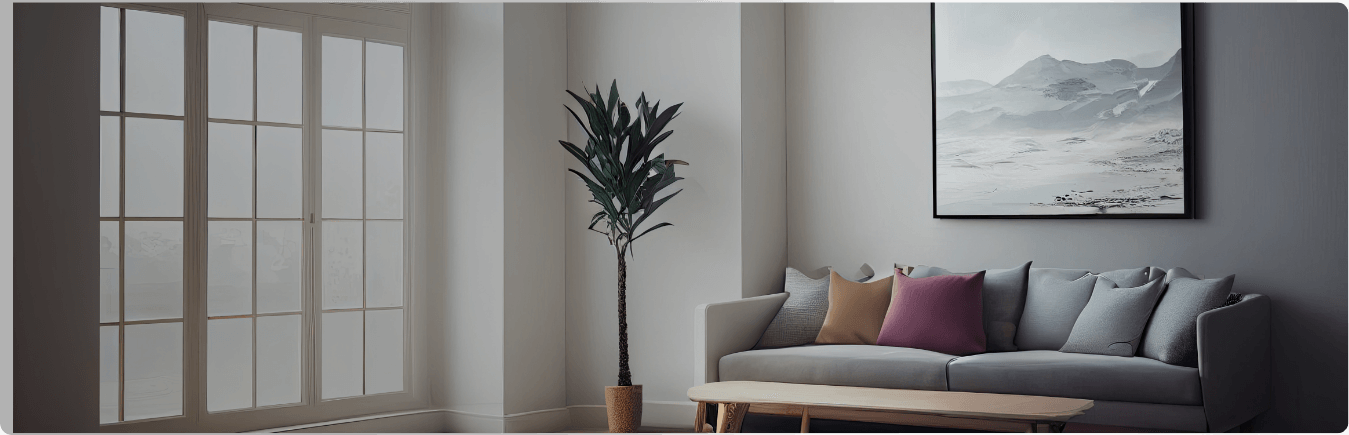
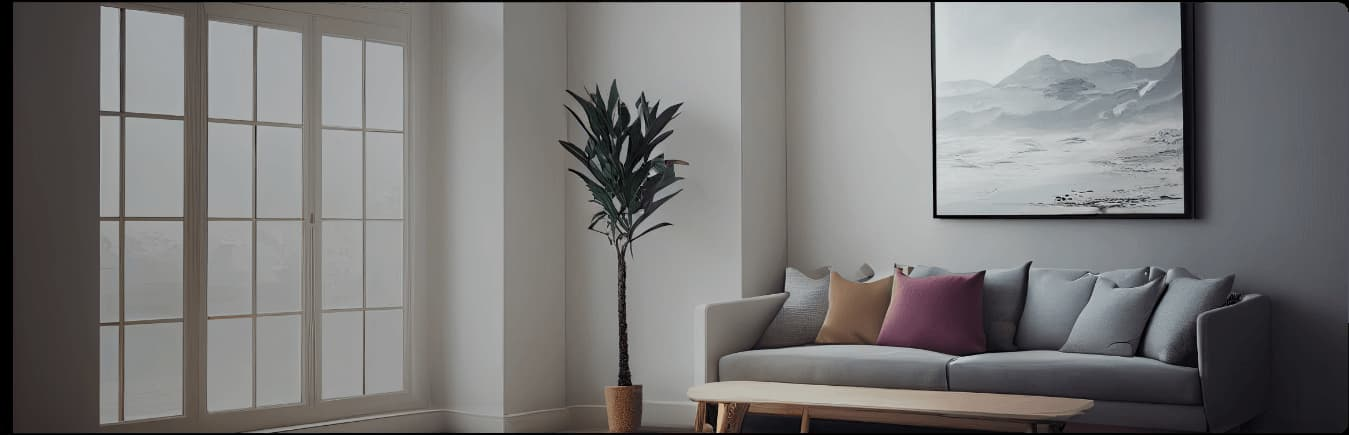
images optimization

Changed region(s): [[0.0, 0.0, 1.0, 1.0]]

diff --git a/src/components/discount-banner/sofa-banner.tsx b/src/components/discount-banner/sofa-banner.tsx
@@ -1,17 +1,17 @@
 'use client';
 import React, { useEffect, useRef, useState } from 'react';
 import Image from 'next/image';
-import Chroma from '@assets/images/banners/Chroma.png';
-import Marlin from '@assets/images/banners/Marlin.png';
+import Chroma from '@assets/images/banners/Chroma.webp';
+import Marlin from '@assets/images/banners/Marlin.webp';
 import rafael from '@assets/images/banners/rafael.png';
-import Calda from '@assets/images/banners/Calda.png';
-import Magia from '@assets/images/banners/Magia.png';
-import Moderno from '@assets/images/banners/Moderno.png';
-import Bergen from '@assets/images/banners/Bergen.png';
-import Moblie_Calda from '@assets/images/banners/Calda_m.jpg';
-import Moblie_Magia from '@assets/images/banners/Magia_m.jpg';
-import Moblie_Moderno from '@assets/images/banners/Moderno_m.jpg';
-import Moblie_Bergen from '@assets/images/banners/Bergen_m.jpg';
+import Calda from '@assets/images/banners/Calda.webp';
+import Magia from '@assets/images/banners/Magia.webp';
+import Moderno from '@assets/images/banners/Moderno.webp';
+import Bergen from '@assets/images/banners/Bergen.webp';
+import Moblie_Calda from '@assets/images/banners/Calda_m.webp';
+import Moblie_Magia from '@assets/images/banners/Magia_m.webp';
+import Moblie_Moderno from '@assets/images/banners/Moderno_m.webp';
+import Moblie_Bergen from '@assets/images/banners/Bergen_m.webp';
 import { Swiper, SwiperSlide } from 'swiper/react';
 import { Autoplay, Pagination } from 'swiper/modules';
 import 'swiper/css';

diff --git a/src/data/index.ts b/src/data/index.ts
@@ -19,9 +19,9 @@ import {
 } from '@/types/types';
 
 import banner1 from '@images/banners/banner1.png';
-import banner2 from '@images/banners/banner2.png';
-import banner3 from '@images/banners/banner3.png';
-import banner4 from '@images/banners/megasale.png';
+import banner2 from '@images/banners/banner2.jpg';
+import banner3 from '@images/banners/banner3.webp';
+import banner4 from '@images/banners/megasale.webp';
 import cardimage1 from '@images/imageeee.png';
 
 import palette from '@icons/palette.png';

diff --git a/src/data/products.ts b/src/data/products.ts
@@ -334,7 +334,7 @@ export const homeProducts: IHomeProducts[] = [
       },
       {
         name: 'Moderno Bedside Table',
-        posterImageUrl: '/images/HomeProducts/Bedroom/Moderno.png',
+        posterImageUrl: '/images/HomeProducts/Bedroom/Moderno.webp',
       },
       {
         name: 'Ombra Bedside Table',

diff --git a/src/components/discount-banner/sale-banner.tsx b/src/components/discount-banner/sale-banner.tsx
@@ -2,7 +2,7 @@
 import React from 'react';
 import Container from '../ui/Container';
 import Image from 'next/image';
-import Salebanner from '@assets/images/banners/dsffsdf.png';
+import Salebanner from '@assets/images/banners/dsffsdf.webp';
 import Link from 'next/link';
 
 const SaleBanner: React.FC = () => {

diff --git a/src/components/Home/discount-banner.tsx b/src/components/Home/discount-banner.tsx
@@ -1,7 +1,7 @@
 'use client';
 import Aos from 'aos';
 import React, { useEffect } from 'react';
-import banner4 from '@assets/images/banners/banner10.png';
+import banner4 from '@assets/images/banners/banner10.webp';
 import Link from 'next/link';
 import 'aos/dist/aos.css';
 

diff --git a/src/components/discount-banner/mega-sale.tsx b/src/components/discount-banner/mega-sale.tsx
@@ -1,4 +1,4 @@
-import banner6 from '@images/banners/banner6.png';
+import banner6 from '@images/banners/banner6.webp';
 import CounDown from '@/components/countdown/coundown';
 
 const MegaSale = () => {
